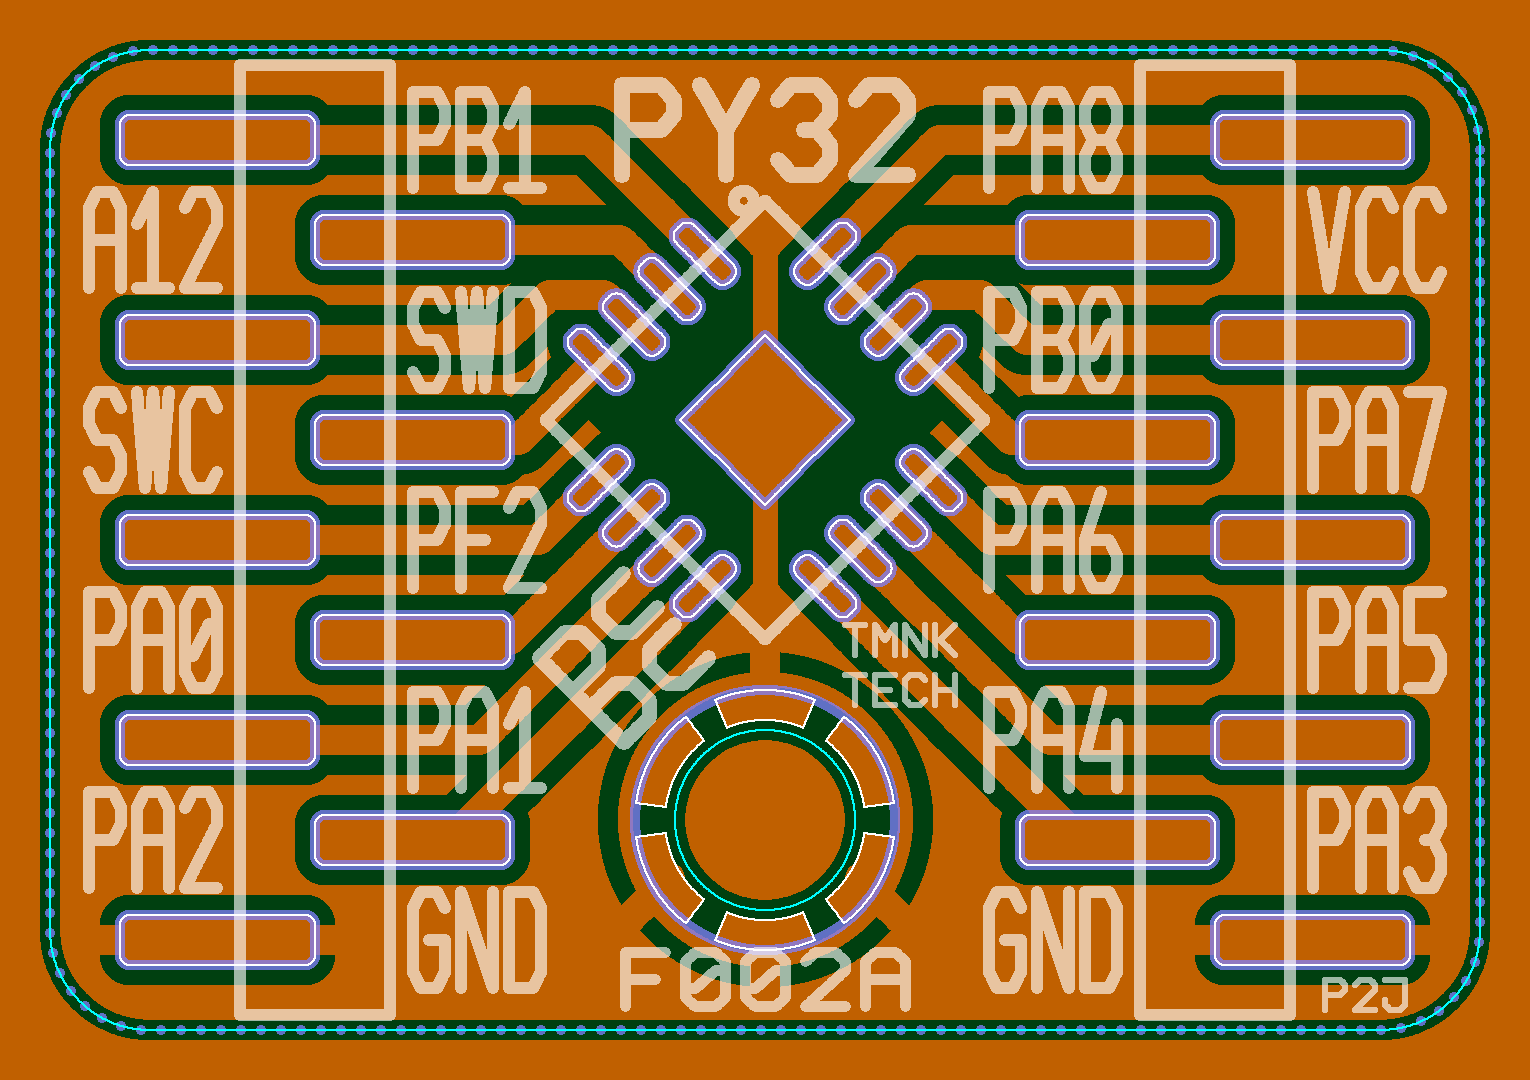
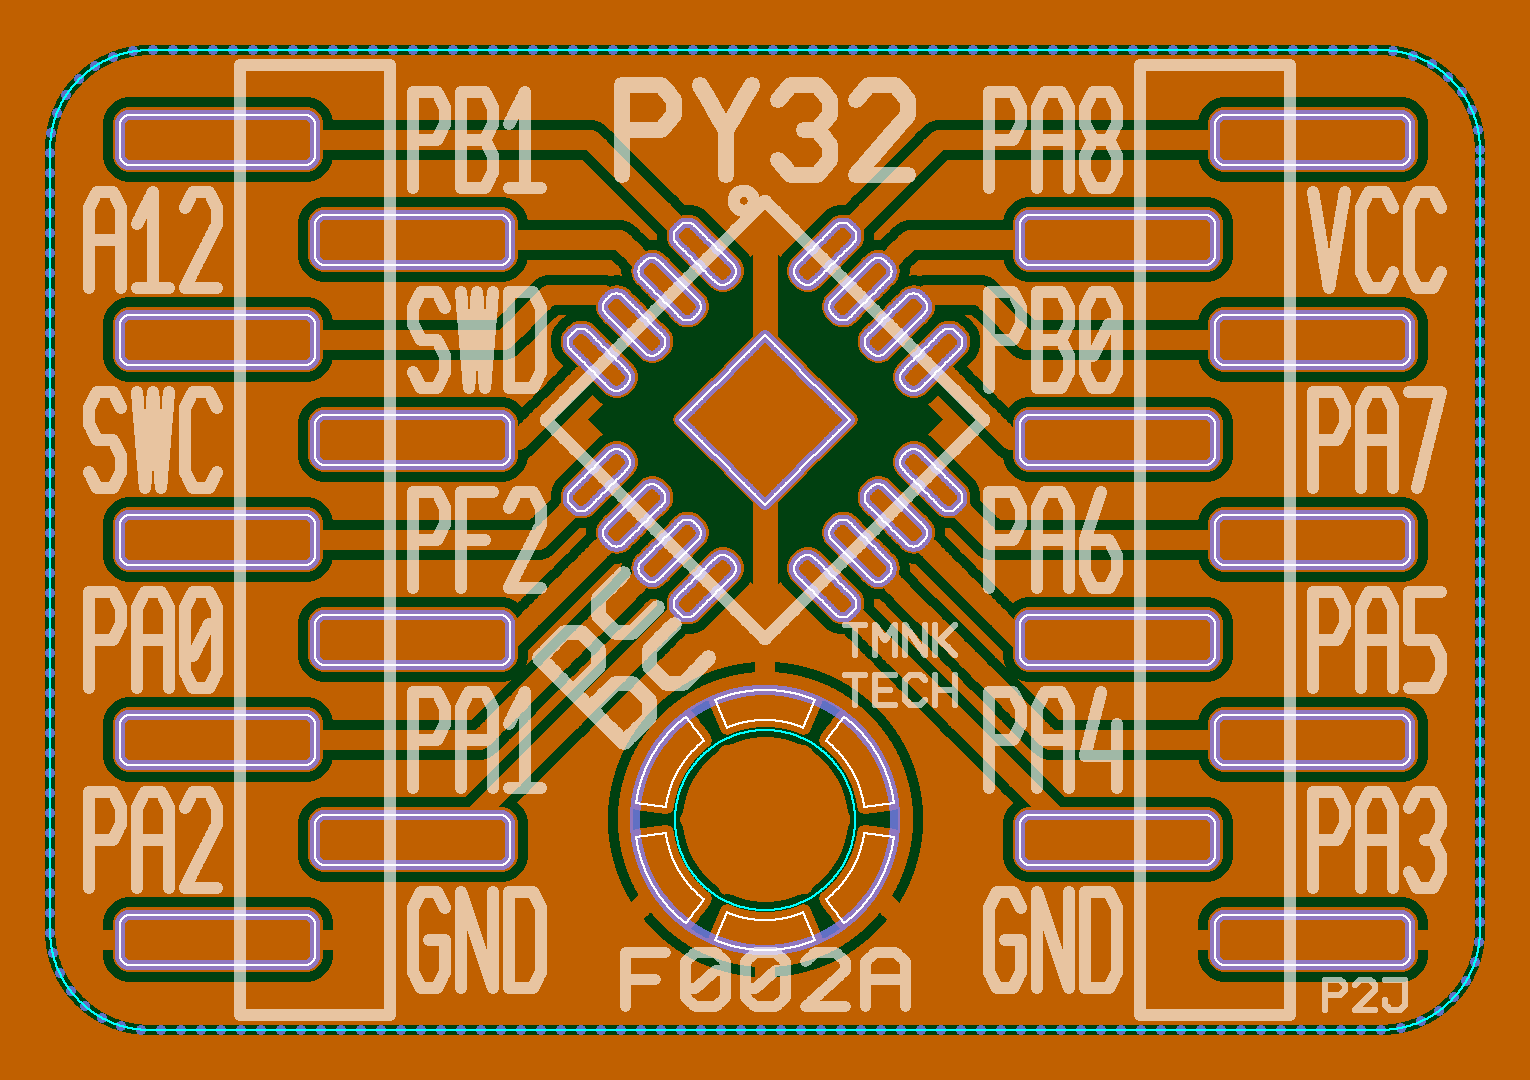
Add ExtraPadCopperWidth config param

diff --git a/eda/pcb/etch.go b/eda/pcb/etch.go
@@ -128,13 +128,14 @@ func removeEtchCopper(config *config.Config, component *eda.Component, copper *b
 	clearWidth := 2 * (config.CopperClearWidth - config.ExtraCopperWidth)
 
 	// Pads
-	clearBrush := shape.Circle(int(clearWidth * config.PixelsPerMM))
-	clearBrush.ForEachPathsPixel(component.Pads, t, copper.Set1)
+	padClearBrush := shape.Circle(int((clearWidth + config.ExtraPadCopperWidth) * config.PixelsPerMM))
+	padClearBrush.ForEachPathsPixel(component.Pads, t, copper.Set1)
 
 	// Non-ground tracks
 	brush := shape.Circle(int((component.TrackWidth + clearWidth) * config.PixelsPerMM))
 	brush.ForEachPathsPixel(component.Tracks, t, copper.Set1)
 
+	clearBrush := shape.Circle(int(clearWidth * config.PixelsPerMM))
 	clearBrush = shape.Circle(int(config.CopperClearWidth * config.PixelsPerMM))
 	clearBrush.ForEachPathsPixel(component.Cuts, t, copper.Set1)
 	clearBrush.ForEachPathsPixel(component.Holes, t, copper.Set1)
@@ -147,7 +148,7 @@ func addEtchCopper(config *config.Config, component *eda.Component, copper *bitm
 	// Pads
 	shape.ForEachRow(component.Pads, t, copper.Set0)
 
-	extraCopperBrush := shape.Circle(int(config.ExtraCopperWidth * config.PixelsPerMM))
+	extraCopperBrush := shape.Circle(int((config.ExtraCopperWidth + config.ExtraPadCopperWidth) * config.PixelsPerMM))
 	extraCopperBrush.ForEachPathsPixel(component.Pads, t, copper.Set0)
 
 	// Tracks

diff --git a/eda/pcb/config/config.go b/eda/pcb/config/config.go
@@ -10,11 +10,12 @@ type Config struct {
 	Width, Height float64
 	PixelsPerMM   float64
 
-	TrackWidth       float64
-	ExtraCopperWidth float64
-	CopperClearWidth float64
-	MaskCutWidth     float64
-	OverviewCutWidth float64
+	TrackWidth          float64
+	ExtraCopperWidth    float64
+	ExtraPadCopperWidth float64
+	CopperClearWidth    float64
+	MaskCutWidth        float64
+	OverviewCutWidth    float64
 
 	LbrnCenterX, LbrnCenterY float64
 

diff --git a/font/font.go b/font/font.go
@@ -27,8 +27,8 @@ Vector (linear) font matrix. Data below uses its point numbers.
 Negative number means jump (no line) before it.
 
 Examples:
-	'Q': {4, 8, 19, 39, 48, 44, 33, 13, 4, -24, 42},
-	'q': {41, 47, 17, 6, 4, 13, 43},
+	'Q': {{14, 18, 29, 49, 58, 54, 43, 23, 14}, {34, 52}},
+	'q': {{51, 57, 27, 16, 14, 23, 53}},
 
 Grid:
 	19 29 39 49 59

diff --git a/boards/puya/qfn16/board_test.go b/boards/puya/qfn16/board_test.go
@@ -10,9 +10,10 @@ import (
 )
 
 func TestBoard(t *testing.T) {
-	Board.TrackWidth = 0.3
+	Board.TrackWidth = 0.2
 	config := config.Default()
 	config.ExtraCopperWidth = 0
-	config.CopperClearWidth = 0.2
+	config.ExtraPadCopperWidth = 0.15
+	config.CopperClearWidth = 0.1
 	assert.NoError(t, pcb.Process(config, Board))
 }
